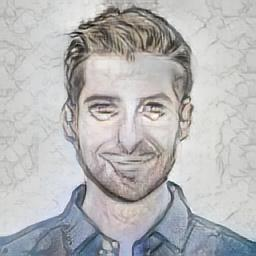
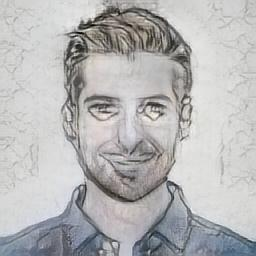
README.md

diff --git a/README.md b/README.md
@@ -1,0 +1,193 @@
+# 🎨 Neural Style Transfer
+
+> Reimagine any photo as a painting — blend content with artistic style using deep learning.
+
+[![Python](https://img.shields.io/badge/Python-3.8+-blue?logo=python&logoColor=white)](https://www.python.org/)
+[![PyTorch](https://img.shields.io/badge/PyTorch-1.x-EE4C2C?logo=pytorch&logoColor=white)](https://pytorch.org/)
+[![Flask](https://img.shields.io/badge/Flask-Web%20App-000000?logo=flask&logoColor=white)](https://flask.palletsprojects.com/)
+[![License](https://img.shields.io/badge/License-MIT-green)](LICENSE)
+
+---
+
+## 📌 Overview
+
+This project implements **Arbitrary Neural Style Transfer** — a deep learning technique that separates and recombines the *content* of one image with the *artistic style* of another. Built on top of a pre-trained **VGG encoder** and a custom **decoder**, the system uses **Adaptive Instance Normalization (AdaIN)** to achieve real-time, high-quality stylization.
+
+A clean **Flask web interface** lets users upload their own content and style images, adjust the stylization strength (alpha), and instantly generate stylized artwork — no GPU required for inference.
+
+---
+
+## ✨ Features
+
+- 🖼 Upload any content image + style image via web UI
+- 🎚 Adjustable **alpha** parameter to control style intensity (0.0 → 1.0)
+- ⚡ Real-time inference using pre-trained VGG encoder + trained decoder
+- 🧠 Arbitrary style transfer — works with *any* style, not just trained ones
+- 🌐 Fully deployable Flask web application (Heroku-ready with `Procfile`)
+- 💻 CPU & GPU compatible
+
+---
+
+## 🏗 Architecture
+
+```
+Content Image ──┐
+                ├──► VGG Encoder ──► AdaIN ──► Decoder ──► Stylized Output
+Style Image ────┘
+```
+
+The pipeline consists of three components:
+
+| Component | Description |
+|-----------|-------------|
+| **VGG Encoder** | Pre-trained VGG-19 (normalised) used to extract content & style feature maps |
+| **AdaIN Layer** | Adaptive Instance Normalization — aligns content feature statistics to style |
+| **Decoder** | Custom-trained CNN that reconstructs the final stylized image from features |
+
+The **alpha** parameter interpolates between content features and AdaIN output:
+
+```
+stylized_feats = α × AdaIN(content, style) + (1 - α) × content_feats
+```
+
+---
+
+## 🗂 Project Structure
+
+```
+Neural_Style_Transfer/
+│
+├── app.py                  # Flask web application (routes, inference pipeline)
+├── train.py                # Decoder training script
+│
+├── utils/
+│   ├── models.py           # VGGEncoder and Decoder model definitions
+│   └── utils.py            # AdaIN, mean/std computation utilities
+│
+├── templates/
+│   └── index.html          # Frontend UI template
+│
+├── static/uploads/         # Stores uploaded & generated images
+├── content_data/           # Sample content images for training/testing
+├── style_data/             # Sample style images for training/testing
+├── examples/               # Pre-generated example outputs
+├── experiment/             # Experimental notebooks/scripts
+│
+├── vgg_normalised.pth      # Pre-trained VGG encoder weights
+├── decoder_final.pth       # Trained decoder weights
+├── requirements.txt        # Python dependencies
+├── runtime.txt             # Python runtime version
+└── Procfile.txt            # Heroku deployment configuration
+```
+
+---
+
+## 🚀 Getting Started
+
+### Prerequisites
+
+- Python 3.8+
+- pip
+
+### Installation
+
+```bash
+# Clone the repository
+git clone https://github.com/Prakhar-garg12/Neural_Style_Transfer.git
+cd Neural_Style_Transfer
+
+# Install dependencies
+pip install -r requirements.txt
+```
+
+### Run the Web App
+
+```bash
+python app.py
+```
+
+Then open your browser at `http://localhost:5000`
+
+### Usage
+
+1. Upload a **Content Image** (the photo you want to stylize)
+2. Upload a **Style Image** (the artwork whose style you want to apply)
+3. Set the **Alpha** value (0.0 = no style, 1.0 = full style transfer)
+4. Click **Transfer Style** and download your result!
+
+---
+
+## 🖼 Example Results
+
+| Content | Style | Output (α=1.0) |
+|---------|-------|----------------|
+| Portrait photo | Van Gogh painting | Stylized portrait |
+| Landscape | Kandinsky abstract | Stylized landscape |
+
+*(See the `/examples` folder for pre-generated outputs)*
+
+---
+
+## 🧪 Training the Decoder
+
+If you want to train the decoder from scratch:
+
+```bash
+python train.py
+```
+
+Training uses content images from `content_data/` and style images from `style_data/`. The encoder weights (`vgg_normalised.pth`) are frozen during training — only the decoder is learned.
+
+---
+
+## 📦 Dependencies
+
+| Library | Purpose |
+|---------|---------|
+| `torch` / `torchvision` | Deep learning framework, image transforms |
+| `flask` | Web framework |
+| `flask-wtf` | Form handling & CSRF protection |
+| `flask-bootstrap` | Frontend styling |
+| `Pillow` | Image I/O and processing |
+| `werkzeug` | Secure file uploads |
+
+---
+
+## 📄 Research References
+
+This project is based on the following research papers:
+
+1. **Arbitrary Style Transfer in Real-time with Adaptive Instance Normalization**  
+   Huang & Belongie, ICCV 2017 — [arxiv.org/abs/1703.06868](https://arxiv.org/abs/1703.06868)
+
+2. **A Neural Algorithm of Artistic Style**  
+   Gatys et al., 2015 — [arxiv.org/abs/1508.06576](https://arxiv.org/abs/1508.06576)
+
+3. **Instance Normalization: The Missing Ingredient for Fast Stylization**  
+   Ulyanov et al., 2016 — [arxiv.org/abs/1603.08155](https://arxiv.org/abs/1603.08155)
+
+4. **Perceptual Losses for Real-Time Style Transfer and Super-Resolution**  
+   Johnson et al., 2016 — [arxiv.org/pdf/1409.1556](https://arxiv.org/pdf/1409.1556)
+
+---
+
+## 🤝 Contributing
+
+Pull requests are welcome! For major changes, please open an issue first to discuss what you'd like to change.
+
+---
+
+## 👤 Author
+
+**Prakhar Garg**  
+[GitHub](https://github.com/Prakhar-garg12)
+
+---
+
+## 📜 License
+
+This project is licensed under the [MIT License](LICENSE).
+
+---
+
+<p align="center">Made with ❤ using PyTorch & Flask</p>
